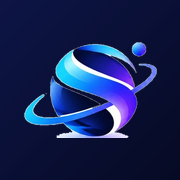
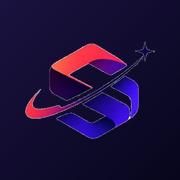
up

Changed region(s): [[0.1111, 0.2222, 0.8889, 0.7778]]

diff --git a/src/index.css b/src/index.css
@@ -6,48 +6,48 @@
   --font-display: 'Montserrat', ui-sans-serif, system-ui, sans-serif;
   --font-sans: 'Montserrat', ui-sans-serif, system-ui, sans-serif;
 
-  --color-navy-50: #f3f5fc;
-  --color-navy-100: #e1e6f6;
-  --color-navy-200: #c3ccea;
-  --color-navy-300: #98a4d0;
-  --color-navy-400: #6877b0;
-  --color-navy-500: #46558f;
-  --color-navy-600: #343f73;
-  --color-navy-700: #232c5c;
-  --color-navy-800: #151c45;
-  --color-navy-900: #0b1033;
-  --color-navy-950: #060a24;
+  --color-navy-50: #f5f4fc;
+  --color-navy-100: #e6e4f5;
+  --color-navy-200: #cbc8e6;
+  --color-navy-300: #a09cc9;
+  --color-navy-400: #7771ab;
+  --color-navy-500: #54508a;
+  --color-navy-600: #3b3869;
+  --color-navy-700: #28264f;
+  --color-navy-800: #181639;
+  --color-navy-900: #0b0a24;
+  --color-navy-950: #060518;
 
-  --color-azure-50: #eef4ff;
-  --color-azure-100: #dbe7ff;
-  --color-azure-200: #bcd2ff;
-  --color-azure-300: #8fb2ff;
-  --color-azure-400: #5a8cff;
-  --color-azure-500: #3472ff;
-  --color-azure-600: #1f6bff;
-  --color-azure-700: #1a52cc;
-  --color-azure-800: #183fa0;
+  --color-azure-50: #f1efff;
+  --color-azure-100: #e2deff;
+  --color-azure-200: #c8c0ff;
+  --color-azure-300: #a79bff;
+  --color-azure-400: #8070ff;
+  --color-azure-500: #6144ff;
+  --color-azure-600: #4a2bf0;
+  --color-azure-700: #3a1fc4;
+  --color-azure-800: #2d1a96;
 
-  --color-teal-50: #ecfcff;
-  --color-teal-100: #cdf6fe;
-  --color-teal-200: #9cecfd;
-  --color-teal-300: #5fdcf9;
-  --color-teal-400: #22c8f0;
-  --color-teal-500: #0aaed8;
-  --color-teal-600: #098ab0;
-  --color-teal-700: #0c6f8c;
+  --color-teal-50: #fff1ee;
+  --color-teal-100: #ffdcd5;
+  --color-teal-200: #ffbaad;
+  --color-teal-300: #ff927f;
+  --color-teal-400: #ff6b57;
+  --color-teal-500: #f2483a;
+  --color-teal-600: #d4332a;
+  --color-teal-700: #a8271f;
 
-  --color-leaf-50: #f6f0ff;
-  --color-leaf-100: #ebdcff;
-  --color-leaf-200: #d9bfff;
-  --color-leaf-300: #c196ff;
-  --color-leaf-400: #a763fa;
-  --color-leaf-500: #8d3cf0;
-  --color-leaf-600: #7626d6;
+  --color-leaf-50: #faf0ff;
+  --color-leaf-100: #f1dcff;
+  --color-leaf-200: #e3bcff;
+  --color-leaf-300: #d093f8;
+  --color-leaf-400: #b866ee;
+  --color-leaf-500: #9d3fd9;
+  --color-leaf-600: #8228b8;
 
-  --shadow-soft: 0 1px 2px rgb(11 16 51 / 0.04), 0 8px 24px -8px rgb(11 16 51 / 0.1);
-  --shadow-lift: 0 2px 4px rgb(11 16 51 / 0.04), 0 24px 48px -16px rgb(31 107 255 / 0.25);
-  --shadow-glow: 0 10px 30px -8px rgb(31 107 255 / 0.55);
+  --shadow-soft: 0 1px 2px rgb(11 10 36 / 0.04), 0 8px 24px -8px rgb(11 10 36 / 0.1);
+  --shadow-lift: 0 2px 4px rgb(11 10 36 / 0.04), 0 24px 48px -16px rgb(74 43 240 / 0.25);
+  --shadow-glow: 0 10px 30px -8px rgb(74 43 240 / 0.55);
 
   --animate-float: float 7s ease-in-out infinite;
   --animate-float-slow: float 10s ease-in-out infinite;
@@ -96,18 +96,18 @@
 
 @layer utilities {
   .text-gradient {
-    background-image: linear-gradient(100deg, #1f6bff 0%, #5b4bf2 55%, #9333ea 100%);
+    background-image: linear-gradient(100deg, #ff5a45 0%, #a12fd0 55%, #4a2bf0 100%);
     -webkit-background-clip: text;
     background-clip: text;
     color: transparent;
   }
   .bg-brand-gradient {
-    background-image: linear-gradient(120deg, #1f6bff 0%, #5b4bf2 60%, #9333ea 110%);
+    background-image: linear-gradient(120deg, #ff5a45 0%, #a12fd0 55%, #4a2bf0 100%);
   }
   .bg-grid {
     background-image:
-      linear-gradient(to right, rgb(31 107 255 / 0.06) 1px, transparent 1px),
-      linear-gradient(to bottom, rgb(31 107 255 / 0.06) 1px, transparent 1px);
+      linear-gradient(to right, rgb(74 43 240 / 0.06) 1px, transparent 1px),
+      linear-gradient(to bottom, rgb(74 43 240 / 0.06) 1px, transparent 1px);
     background-size: 44px 44px;
     mask-image: radial-gradient(ellipse 70% 60% at 50% 30%, #000 30%, transparent 75%);
   }

diff --git a/src/data/projects.ts b/src/data/projects.ts
@@ -194,7 +194,7 @@ export const projects: Project[] = [
     services: ['web-development', 'ui-ux-design'],
     tech: ['React', 'TypeScript', 'Tailwind CSS', 'Node.js', 'Sequelize ORM', 'MySQL'],
     icon: LuStethoscope,
-    accent: ['#0aaed8', '#1f6bff'],
+    accent: ['#4a2bf0', '#a12fd0'],
     overview: [
       'The Clinic Management System is a digital platform that streamlines daily clinic operations — from appointment booking to consultation, prescriptions, vaccination follow-ups and payment collection.',
       'Administrators, doctors and clinic staff each get a dedicated workspace. Patients book appointments, staff manage registration and vital signs, doctors review history and record diagnoses, and administrators monitor performance and financial reports. A multi-dose vaccination workflow sends email reminders before upcoming doses.',
@@ -280,7 +280,7 @@ export const projects: Project[] = [
     services: ['mobile-app-development'],
     tech: ['Flutter', 'Node.js', 'TypeScript', 'Sequelize ORM', 'MySQL'],
     icon: LuBuilding2,
-    accent: ['#5b4bf2', '#9333ea'],
+    accent: ['#a12fd0', '#ff5a45'],
     overview: [
       'MySociety is a residential society management platform that digitises visitor entry, resident approvals, security operations, maintenance reminders and community communication.',
       'Administrators create societies, manage blocks and flats and approve new residents. Security guards register visitors at the gate and send live approval requests to flat members. Residents manage pre-approved visitors, submit complaints, view announcements and receive maintenance reminders.',
@@ -367,7 +367,7 @@ export const projects: Project[] = [
     services: ['web-development', 'mobile-app-development', 'ui-ux-design'],
     tech: ['React', 'TypeScript', 'Flutter', 'AI integration'],
     icon: LuHouse,
-    accent: ['#1f6bff', '#9333ea'],
+    accent: ['#ff5a45', '#4a2bf0'],
     overview: [
       'TASCO brings property seekers, property owners and the internal real estate team into one connected platform. Customers browse homes for sale or rent, explore real estate projects, submit inquiries and list their own properties.',
       'A web platform and Flutter mobile app serve customers, a React + TypeScript admin panel serves the TASCO team, and an AI-powered chat helps users find properties by describing what they need.',

diff --git a/index.html b/index.html
@@ -21,7 +21,7 @@
     <meta name="author" content="Spherotix" />
     <meta name="application-name" content="Spherotix" />
     <meta name="robots" content="index, follow, max-image-preview:large, max-snippet:-1" />
-    <meta name="theme-color" content="#1f6bff" />
+    <meta name="theme-color" content="#4a2bf0" />
     <link rel="canonical" href="https://www.spherotix.com/" />
 
     <meta property="og:type" content="website" />
@@ -65,6 +65,15 @@
           "logo": "https://www.spherotix.com/logo-full.png",
           "image": "https://www.spherotix.com/logo.png",
           "email": "hello@spherotix.com",
+          "telephone": "+91-95129-31212",
+          "address": {
+            "@type": "PostalAddress",
+            "streetAddress": "212, Shlok Infinity, Near Gota Railway Bridge, Opposite Vishwakarma Mandir, Chandlodiya Road, Gota",
+            "addressLocality": "Ahmedabad",
+            "addressRegion": "Gujarat",
+            "postalCode": "382481",
+            "addressCountry": "IN"
+          },
           "description": "Full-service digital agency: web, app, CMS, graphic design, UI/UX and marketing."
         },
         {
@@ -80,6 +89,15 @@
           "@context": "https://schema.org",
           "@type": "ProfessionalService",
           "name": "Spherotix",
+          "telephone": "+91-95129-31212",
+          "address": {
+            "@type": "PostalAddress",
+            "streetAddress": "212, Shlok Infinity, Near Gota Railway Bridge, Opposite Vishwakarma Mandir, Chandlodiya Road, Gota",
+            "addressLocality": "Ahmedabad",
+            "addressRegion": "Gujarat",
+            "postalCode": "382481",
+            "addressCountry": "IN"
+          },
           "url": "https://www.spherotix.com/",
           "image": "https://www.spherotix.com/logo.png",
           "areaServed": "Worldwide",

diff --git a/src/components/Hero.tsx b/src/components/Hero.tsx
@@ -6,7 +6,7 @@ import { avatar, photos, unsplash } from '../lib/img'
 import { ease } from '../lib/motion'
 import { Button } from './ui'
 
-const GRADIENT = 'linear-gradient(100deg, #1f6bff 0%, #5b4bf2 55%, #9333ea 100%)'
+const GRADIENT = 'linear-gradient(100deg, #ff5a45 0%, #a12fd0 55%, #4a2bf0 100%)'
 const pillClass =
   'hidden shrink-0 overflow-hidden rounded-full shadow-lift ring-[0.08em] ring-white sm:inline-block'
 
@@ -127,9 +127,9 @@ function Sparkline({ id }: { id: string }) {
     <svg viewBox="0 0 120 40" className="h-9 w-24" fill="none" aria-hidden="true">
       <defs>
         <linearGradient id="spark" x1="0" x2="1">
-          <stop stopColor="#1f6bff" />
-          <stop offset=".6" stopColor="#5b4bf2" />
-          <stop offset="1" stopColor="#9333ea" />
+          <stop stopColor="#ff5a45" />
+          <stop offset=".6" stopColor="#a12fd0" />
+          <stop offset="1" stopColor="#4a2bf0" />
         </linearGradient>
       </defs>
       <motion.path

diff --git a/src/components/ServiceArt.tsx b/src/components/ServiceArt.tsx
@@ -5,7 +5,7 @@ import { tintColors } from '../lib/tints'
 
 const grey = '#9aa6bd'
 const ink = '#596070'
-const brand = '#1f6bff'
+const brand = '#ff5a45'
 
 /** Hover-tilting wrapper shared by all illustrations (group = the service card). */
 function Stage({ children }: { children: ReactNode }) {
@@ -140,7 +140,7 @@ function Marketing({ t }: { t: string }) {
         ))}
         <motion.path
           d="M92 176 C140 170 150 130 190 138 S250 92 316 78"
-          stroke="#5b4bf2"
+          stroke="#a12fd0"
           strokeWidth="5"
           strokeLinecap="round"
           fill="none"
@@ -149,7 +149,7 @@ function Marketing({ t }: { t: string }) {
           viewport={{ once: true }}
           transition={{ duration: 1.6, delay: 0.3 }}
         />
-        <circle cx="316" cy="78" r="9" fill="#9333ea" stroke="#fff" strokeWidth="4" />
+        <circle cx="316" cy="78" r="9" fill="#4a2bf0" stroke="#fff" strokeWidth="4" />
       </g>
     </Stage>
   )

diff --git a/src/components/About.tsx b/src/components/About.tsx
@@ -120,7 +120,7 @@ function PagePreview() {
             cy="22"
             r="18"
             fill="none"
-            stroke="#9333ea"
+            stroke="#4a2bf0"
             strokeWidth="4"
             strokeLinecap="round"
             initial={{ pathLength: 0 }}
@@ -140,8 +140,8 @@ function Sparkline() {
     <svg viewBox="0 0 110 34" className="h-9 w-16 shrink-0" fill="none" aria-hidden="true">
       <defs>
         <linearGradient id="about-spark" x1="0" x2="1">
-          <stop stopColor="#1f6bff" />
-          <stop offset="1" stopColor="#9333ea" />
+          <stop stopColor="#ff5a45" />
+          <stop offset="1" stopColor="#4a2bf0" />
         </linearGradient>
       </defs>
       <motion.path

diff --git a/src/components/page/ServiceCard.tsx b/src/components/page/ServiceCard.tsx
@@ -32,7 +32,7 @@ export function ServiceCard({ service: s }: { service: ServiceDetail }) {
               loading="lazy"
               className="absolute inset-0 h-full w-full object-cover opacity-25 mix-blend-luminosity transition-transform duration-[1200ms] ease-out group-hover:scale-110"
             />
-            <div className="absolute inset-0 bg-[radial-gradient(circle_at_50%_40%,rgb(34_200_240/0.35),transparent_65%)]" />
+            <div className="absolute inset-0 bg-[radial-gradient(circle_at_50%_40%,rgb(161_47_208/0.35),transparent_65%)]" />
             <div className="absolute inset-0 bg-gradient-to-b from-navy-950/20 via-transparent to-navy-950" />
           </>
         )}

diff --git a/src/lib/tints.ts b/src/lib/tints.ts
@@ -1,7 +1,7 @@
 import type { Tint } from '../data/services'
 
 export const tintColors: Record<Tint, { solid: string; bg: string }> = {
-  azure: { solid: '#d4e5ff', bg: 'linear-gradient(160deg, #e3eeff 0%, #bfd7ff 100%)' },
-  teal: { solid: '#c2f0f2', bg: 'linear-gradient(160deg, #daf7f8 0%, #9fe4e8 100%)' },
-  leaf: { solid: '#e4d3ff', bg: 'linear-gradient(160deg, #f3ebff 0%, #cdb0ff 100%)' },
+  azure: { solid: '#e2deff', bg: 'linear-gradient(160deg, #efecff 0%, #c8c0ff 100%)' },
+  teal: { solid: '#ffdcd5', bg: 'linear-gradient(160deg, #fff1ee 0%, #ffbaad 100%)' },
+  leaf: { solid: '#f1dcff', bg: 'linear-gradient(160deg, #faf0ff 0%, #e3bcff 100%)' },
 }

diff --git a/src/pages/ContactPage.tsx b/src/pages/ContactPage.tsx
@@ -34,7 +34,12 @@ export default function ContactPage() {
   const cards = [
     { icon: LuMail, label: 'Email us', value: company.email, href: `mailto:${company.email}` },
     { icon: LuPhone, label: 'Call us', value: company.phone, href: `tel:${company.phone.replace(/\s/g, '')}` },
-    { icon: LuMapPin, label: 'Location', value: company.address },
+    {
+      icon: LuMapPin,
+      label: 'Visit our office',
+      value: company.address,
+      href: `https://www.google.com/maps/search/?api=1&query=${encodeURIComponent(company.address)}`,
+    },
     { icon: LuClock, label: 'Working hours', value: company.hours },
   ]
 

diff --git a/src/components/ContactForm.tsx b/src/components/ContactForm.tsx
@@ -61,7 +61,7 @@ export function ContactForm({ defaultService }: ContactFormProps) {
 
       <label className="mt-4 block text-sm font-semibold text-navy-800">
         Phone <span className="font-normal text-navy-400">(optional)</span>
-        <input name="phone" type="tel" autoComplete="tel" placeholder="+91 00000 00000" className={`${inputClass} mt-1.5`} />
+        <input name="phone" type="tel" autoComplete="tel" placeholder="+91 95129 31212" className={`${inputClass} mt-1.5`} />
       </label>
 
       {/* honeypot */}

diff --git a/src/components/WhyUs.tsx b/src/components/WhyUs.tsx
@@ -8,7 +8,7 @@ const sentence =
   'We are a full-service digital agency that designs, builds and grows websites, mobile apps, CMS platforms and brands for startups and ambitious businesses.'
 
 function Word({ word, progress, range }: { word: string; progress: MotionValue<number>; range: [number, number] }) {
-  const color = useTransform(progress, range, ['#9fb0cc', '#0b1033'])
+  const color = useTransform(progress, range, ['#9fb0cc', '#0b0a24'])
   return <motion.span style={{ color }}>{word}</motion.span>
 }
 

diff --git a/src/data/content.ts b/src/data/content.ts
@@ -22,8 +22,10 @@ import { projects } from './projects'
 export const company = {
   name: 'Spherotix',
   email: 'hello@spherotix.com',
-  phone: '+91 00000 00000',
-  address: 'India · Serving clients worldwide',
+  phone: '+91 95129 31212',
+  address:
+    '212, Shlok Infinity, Near Gota Railway Bridge, Opposite Vishwakarma Mandir, Chandlodiya Road, Gota, Ahmedabad - 382481, Gujarat, India',
+  city: 'Ahmedabad, Gujarat',
   hours: 'Mon – Sat, 10:00 – 19:00 IST',
 }
 
